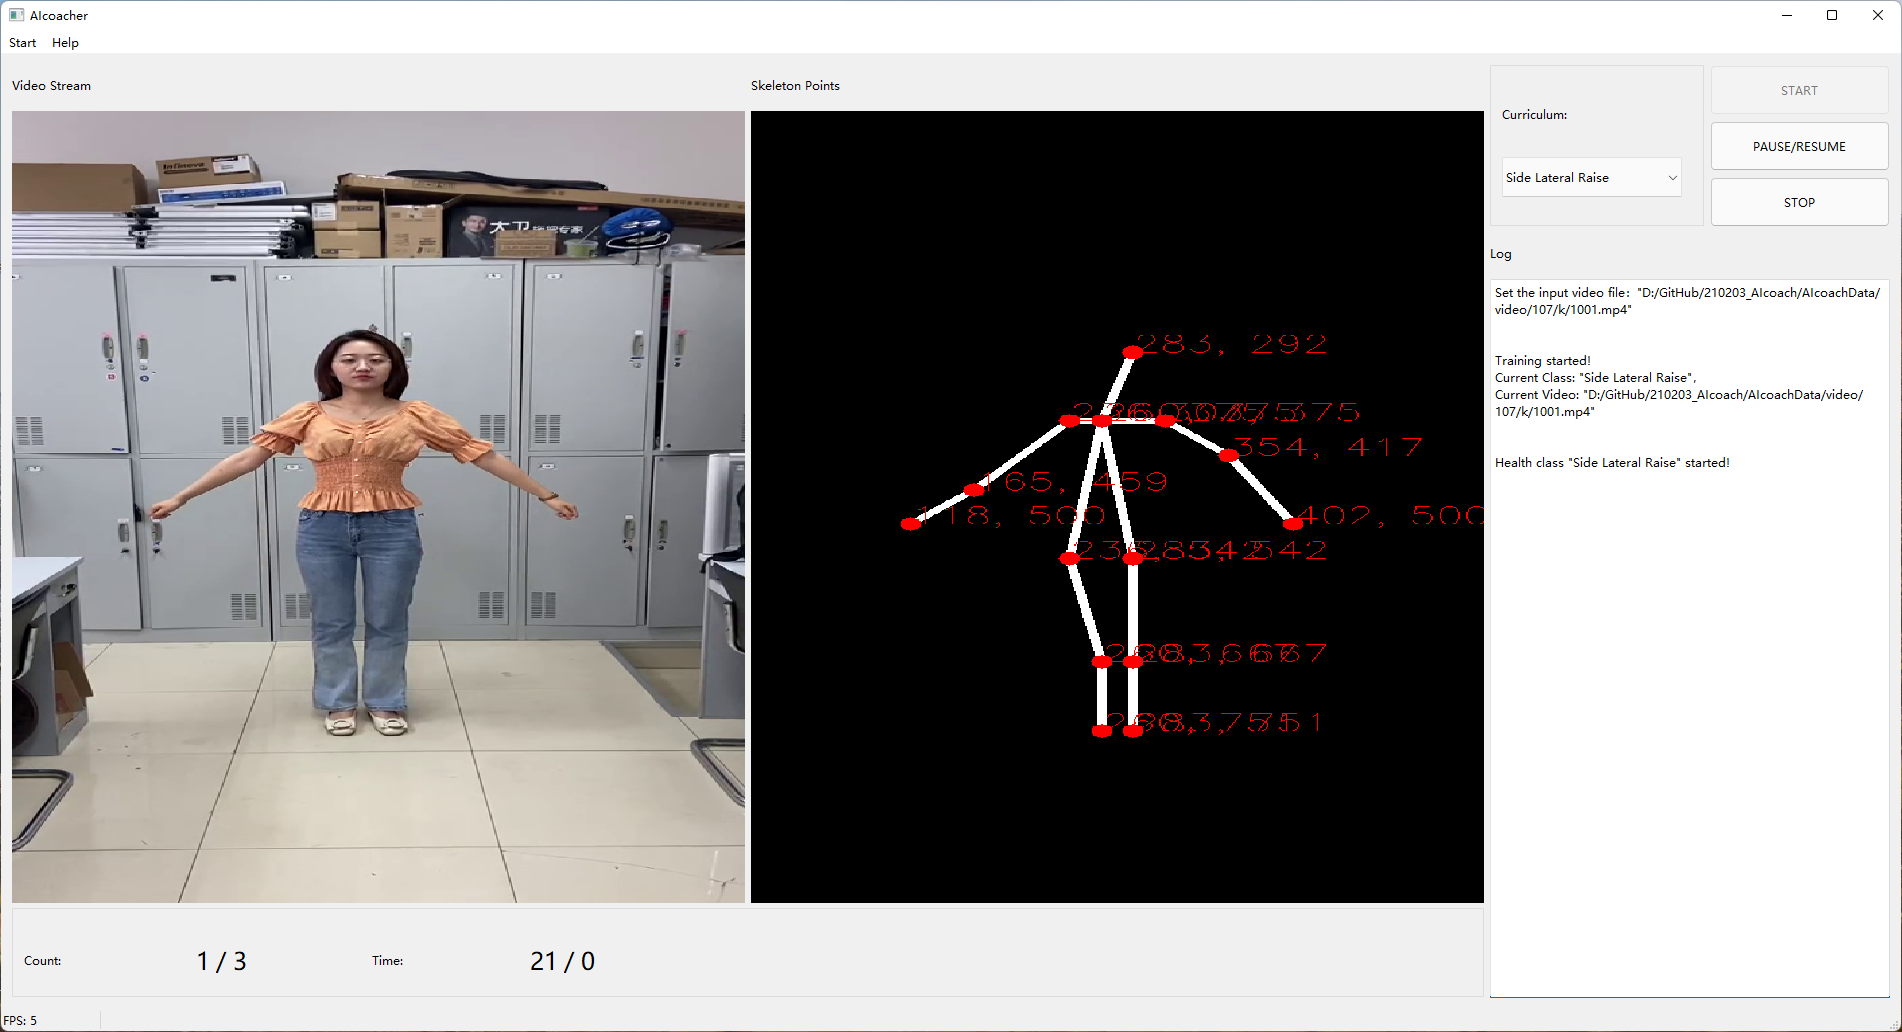
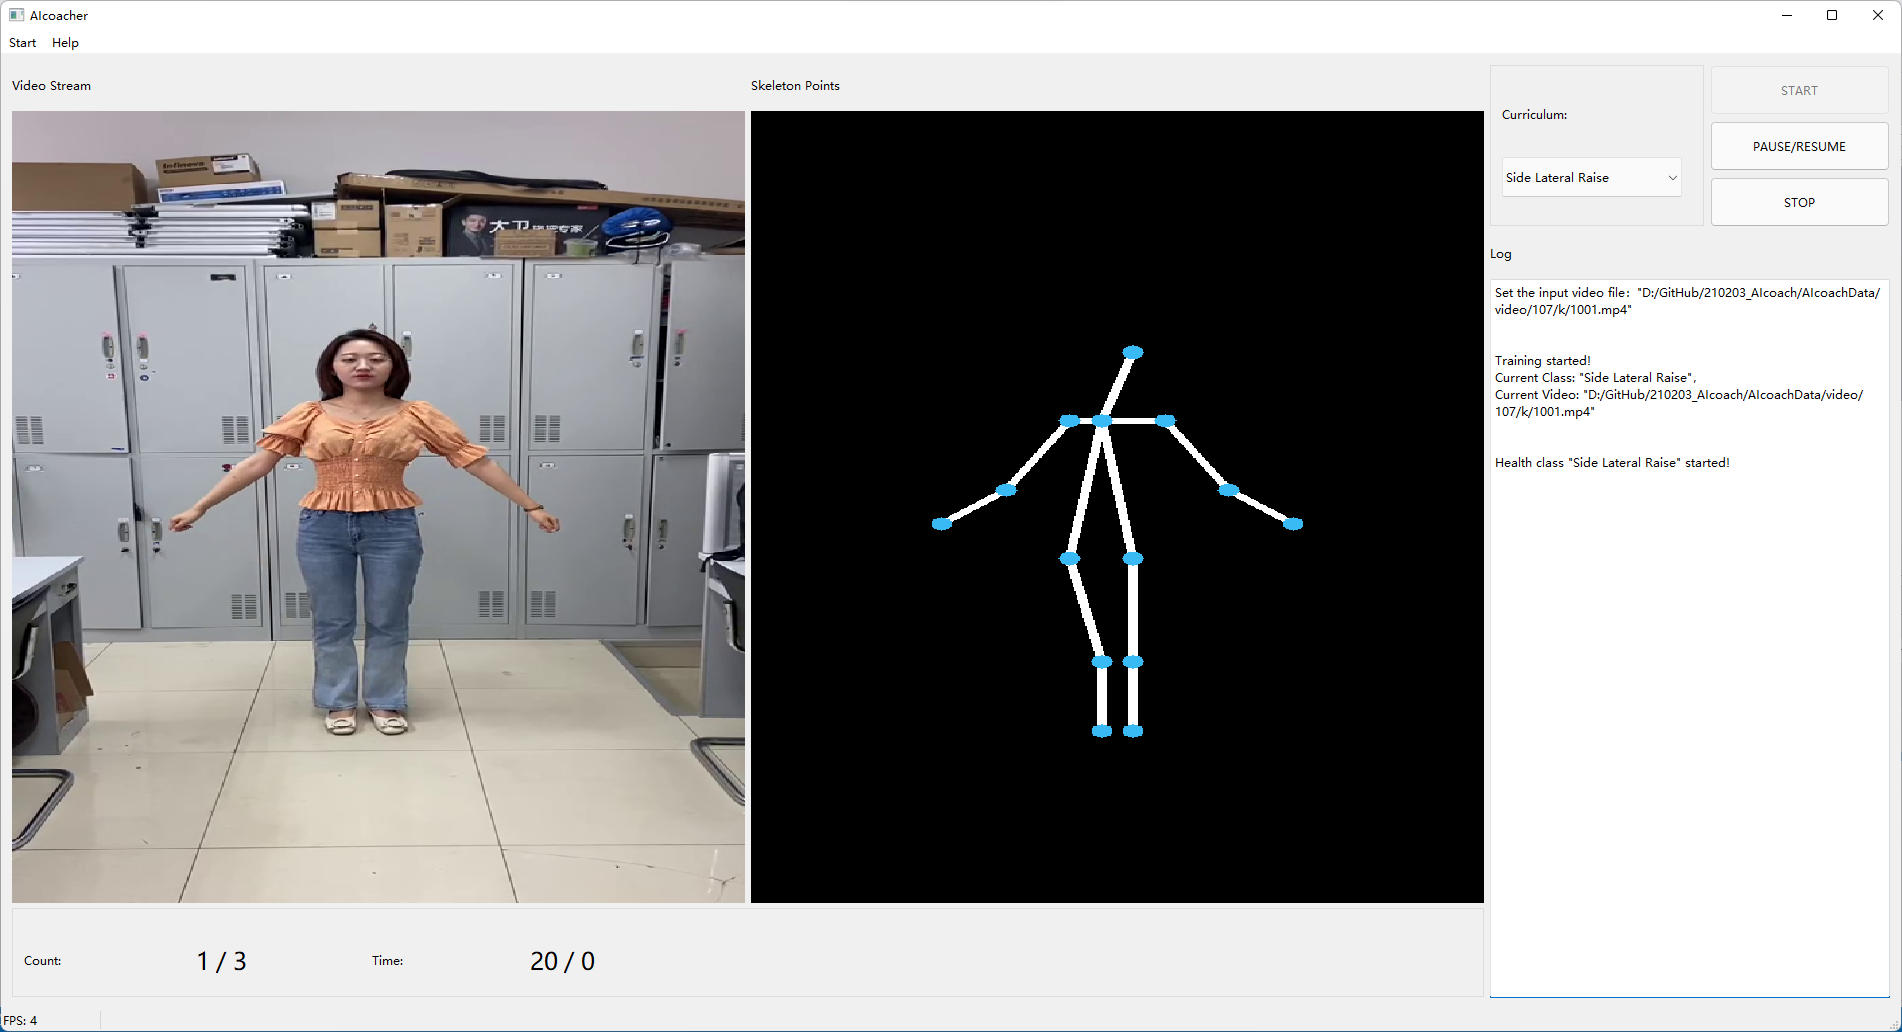
Update illustrations.

diff --git a/AIcoachDLL/VideoIO.cpp b/AIcoachDLL/VideoIO.cpp
@@ -104,12 +104,14 @@ void VideoIO::PutPointInfo(PersonPosePara pose, cv::Mat* pInImage)
 	{
 		cv::circle(current_frame,
 			cv::Point(int(pose.pointPose[i * 2 ]), int(pose.pointPose[i * 2+ 1])),
-			8, cv::Scalar(0, 0, 255), -1);
+			8, cv::Scalar(244, 186, 57), -1);
 		std::stringstream output_text;
 		output_text << pose.pointPose[i * 2 ] << ", " << pose.pointPose[i * 2+ 1];
+		/*
 		cv::putText(current_frame, output_text.str(), 
 			cv::Point(int(pose.pointPose[i * 2 ]), int(pose.pointPose[i * 2+ 1])), 
 			cv::FONT_HERSHEY_SIMPLEX, 1, cv::Scalar(0, 0, 255), 1, cv::LINE_8, false);
+		*/
 	}
 }
 
